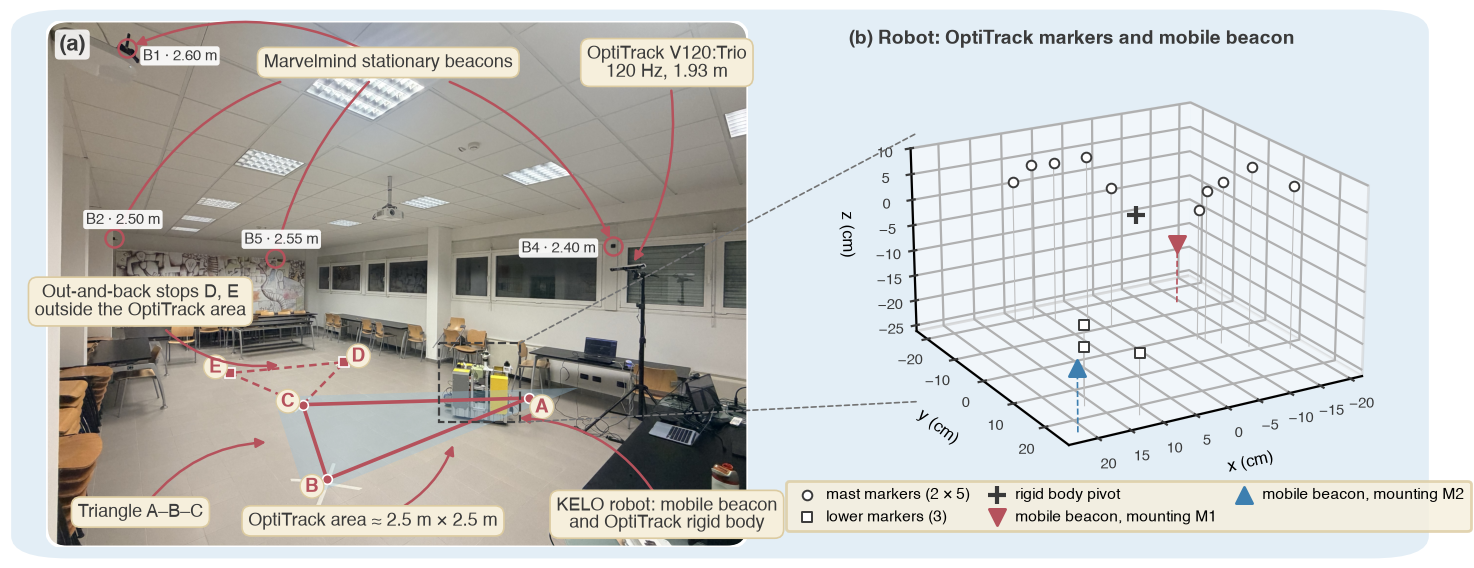
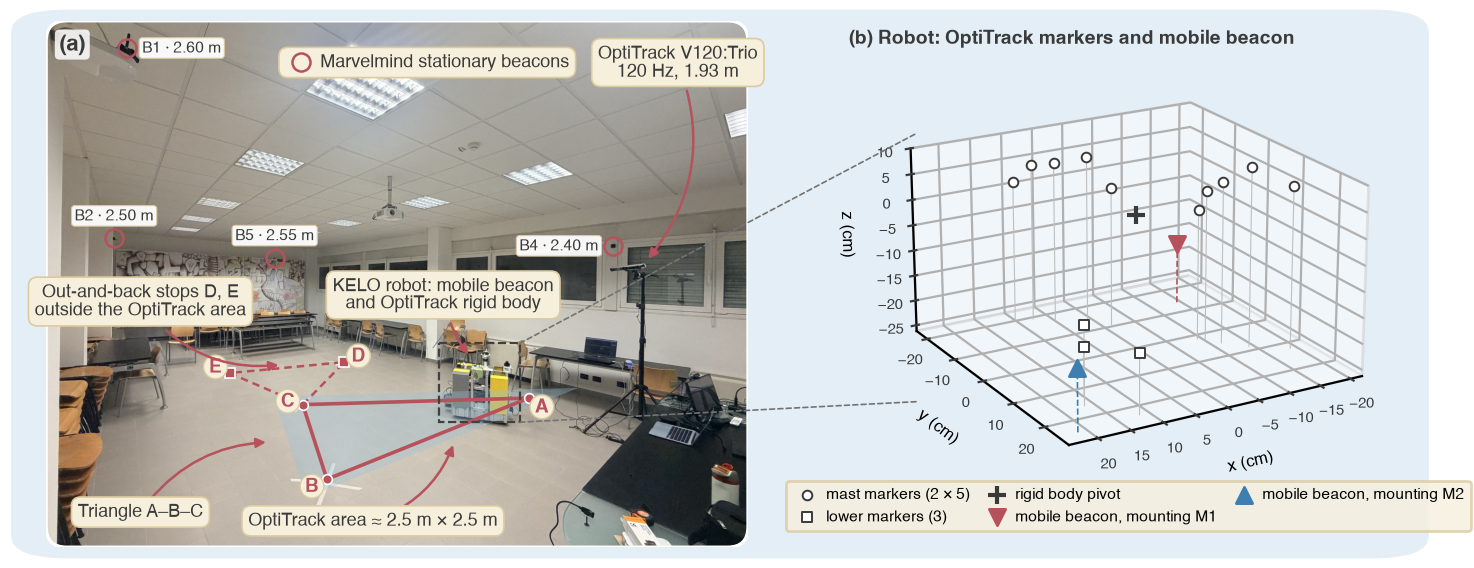
Fig. 1 photo: no overlapping arrows or labels; beacon tags detached from the circles

diff --git a/paper/scripts/fig_setup_photo.py b/paper/scripts/fig_setup_photo.py
@@ -62,9 +62,14 @@ def label(text, xy_text, targets, ha='center'):
                                     connectionstyle=f'arc3,rad={r}', patchA=t.get_bbox_patch()))
     return t
 
-def tag(xy, text, dx, dy):
-    ax.text(*P(xy[0] + dx, xy[1] + dy), text, ha='center', va='center', fontsize=5.4, color=TEXT,
-            bbox=dict(boxstyle='round,pad=0.18', fc='white', ec='none', alpha=0.92), zorder=8)
+def tag(xy, text, side):
+    """Name/height tag next to a beacon circle, never touching it (gap of 34 px in the 1600 frame)."""
+    x, y = xy; g = 34
+    pos = {'right': ((x + g, y), 'left', 'center'), 'left': ((x - g, y), 'right', 'center'),
+           'above': ((x, y - g), 'center', 'bottom'), 'below': ((x, y + g), 'center', 'top')}[side]
+    (tx, ty), ha, va = pos
+    ax.text(*P(tx, ty), text, ha=ha, va=va, fontsize=5.6, color=TEXT,
+            bbox=dict(boxstyle='round,pad=0.2', fc='white', ec=LABEL_EC, lw=0.4, alpha=0.95), zorder=8)
 
 # OptiTrack working area (schematic: hull of the triangle, enlarged)
 V = np.array([VERT[k] for k in 'ABC'], float); c = V.mean(0); area = c + (V - c) * 1.35
@@ -80,20 +85,21 @@ for k, (x, y) in {**VERT, **OUT}.items():
 # beacons: small circles and name/height tags
 for k, ((x, y), h) in BEAC.items():
     ax.plot(*P(x, y), 'o', ms=6.5, mfc='none', mec=ARROW, mew=0.9, zorder=4)
-tag(BEAC['B1'][0], 'B1 · 2.60 m', 120, 18)
-tag(BEAC['B2'][0], 'B2 · 2.50 m', 20, -42)
-tag(BEAC['B5'][0], 'B5 · 2.55 m', 15, -42)
-tag(BEAC['B4'][0], 'B4 · 2.40 m', -125, 5)
+tag(BEAC['B1'][0], 'B1 · 2.60 m', 'right')
+tag(BEAC['B2'][0], 'B2 · 2.50 m', 'above')
+tag(BEAC['B5'][0], 'B5 · 2.55 m', 'above')
+tag(BEAC['B4'][0], 'B4 · 2.40 m', 'left')
 
 # labels along the edges, aligned in rows
-label('Marvelmind stationary beacons', (780, 95),
-      [(BEAC['B1'][0], 0.25), (BEAC['B2'][0], 0.3), (BEAC['B5'][0], 0.15), (BEAC['B4'][0], -0.25)])
-label('OptiTrack V120:Trio\n120 Hz, 1.93 m', (1415, 95), [(OPTI, -0.2)])
+# beacons: legend-like label with a circle glyph, no arrows (the tags name each beacon)
+lb = label('       Marvelmind stationary beacons', (545, 95), [], ha='left')
+ax.plot(*P(580, 95), 'o', ms=6.5, mfc='none', mec=ARROW, mew=0.9, zorder=7)
+label('OptiTrack V120:Trio\n120 Hz, 1.93 m', (1440, 95), [((OPTI[0] + 30, OPTI[1] - 8), -0.3)])
 label('Out-and-back stops D, E\noutside the OptiTrack area', (215, 640),
       [(((OUT['D'][0] + OUT['E'][0]) / 2, (OUT['D'][1] + OUT['E'][1]) / 2 - 8), 0.3)])
 label('Triangle A–B–C', (215, 1120), [((520, 960), -0.25)])
 label('OptiTrack area ≈ 2.5 m × 2.5 m', (745, 1140), [(tuple(area[0] * 0.55 + area[1] * 0.45), 0.25)])
-label('KELO robot: mobile beacon\nand OptiTrack rigid body', (1415, 1125), [((1060, 905), 0.3)])
+label('KELO robot: mobile beacon\nand OptiTrack rigid body', (905, 625), [((975, 775), 0.15)])
 ax.text(*P(30, 30), '(a)', fontsize=8, weight='bold', ha='left', va='top', color=TEXT, zorder=7,
         bbox=dict(boxstyle='round,pad=0.2', fc='white', ec='none', alpha=0.85))
 
